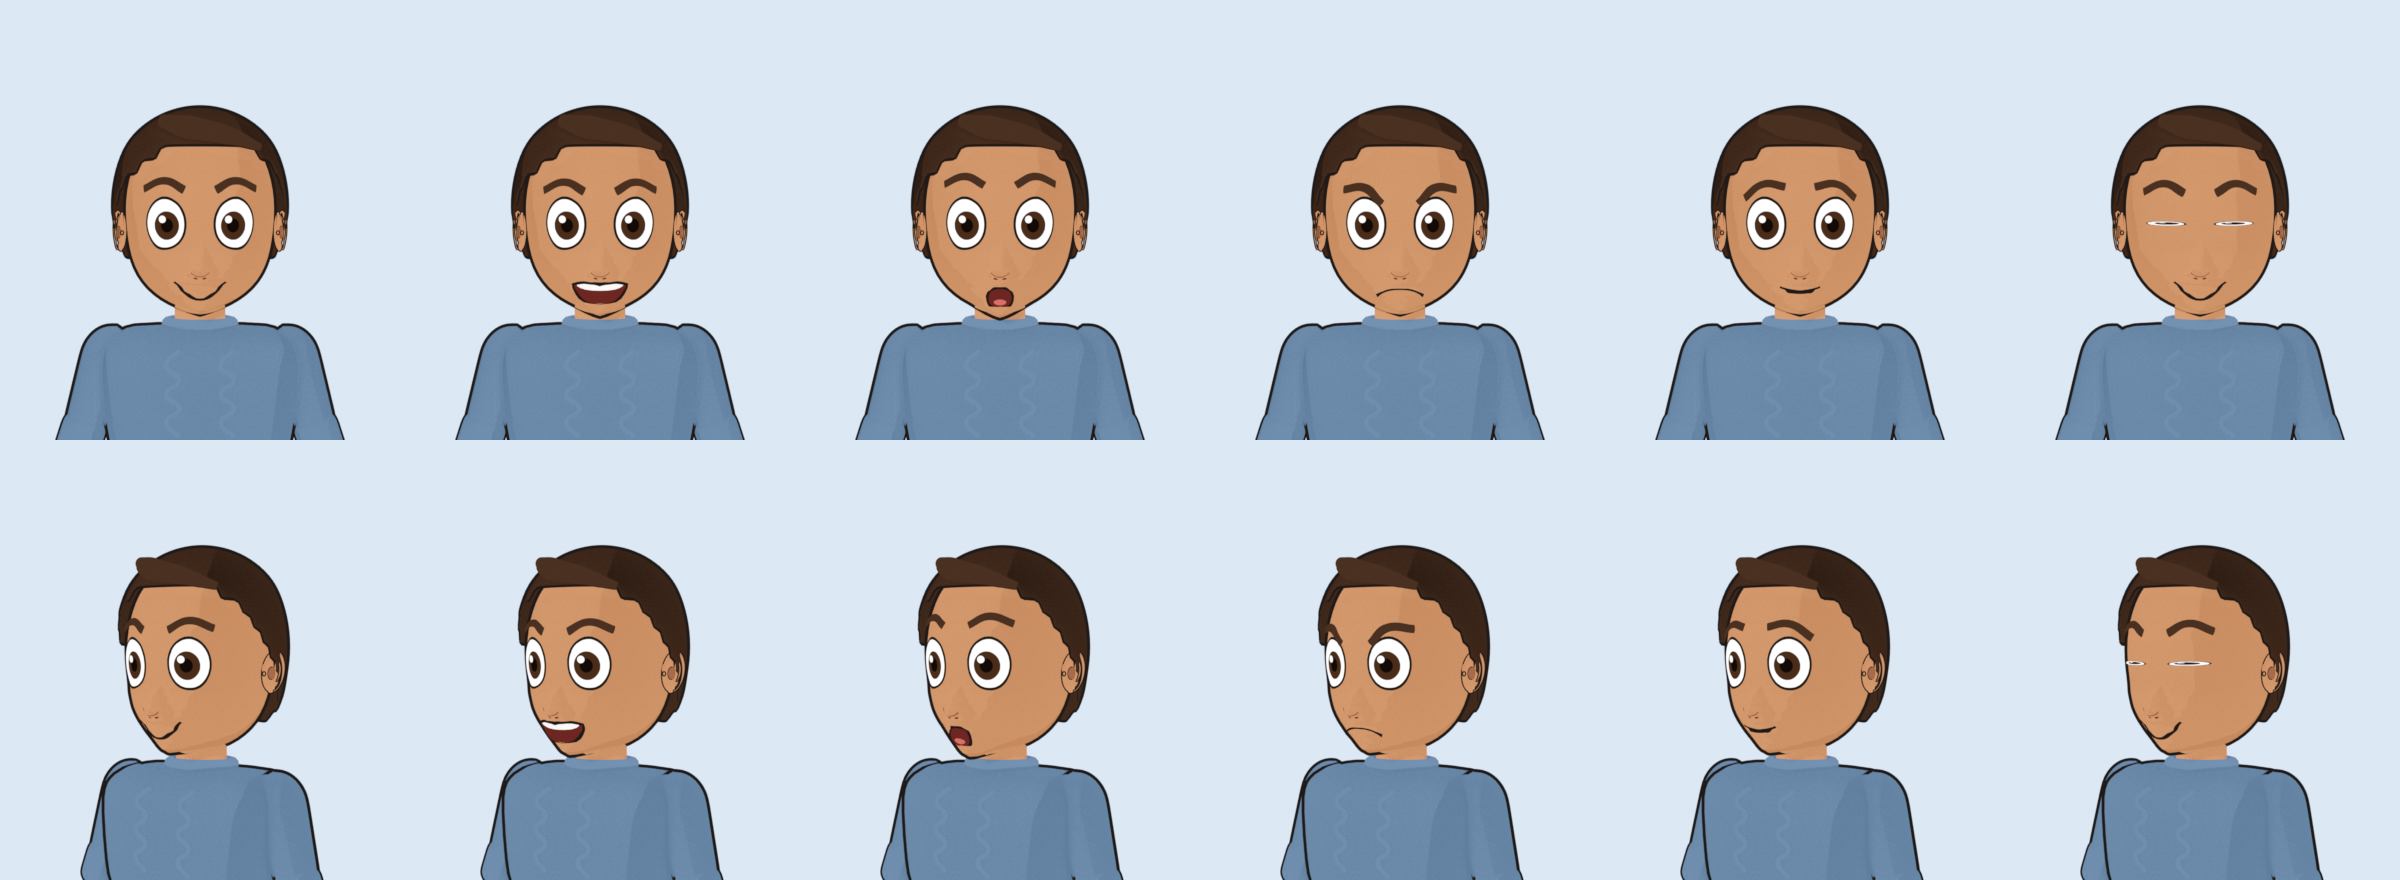
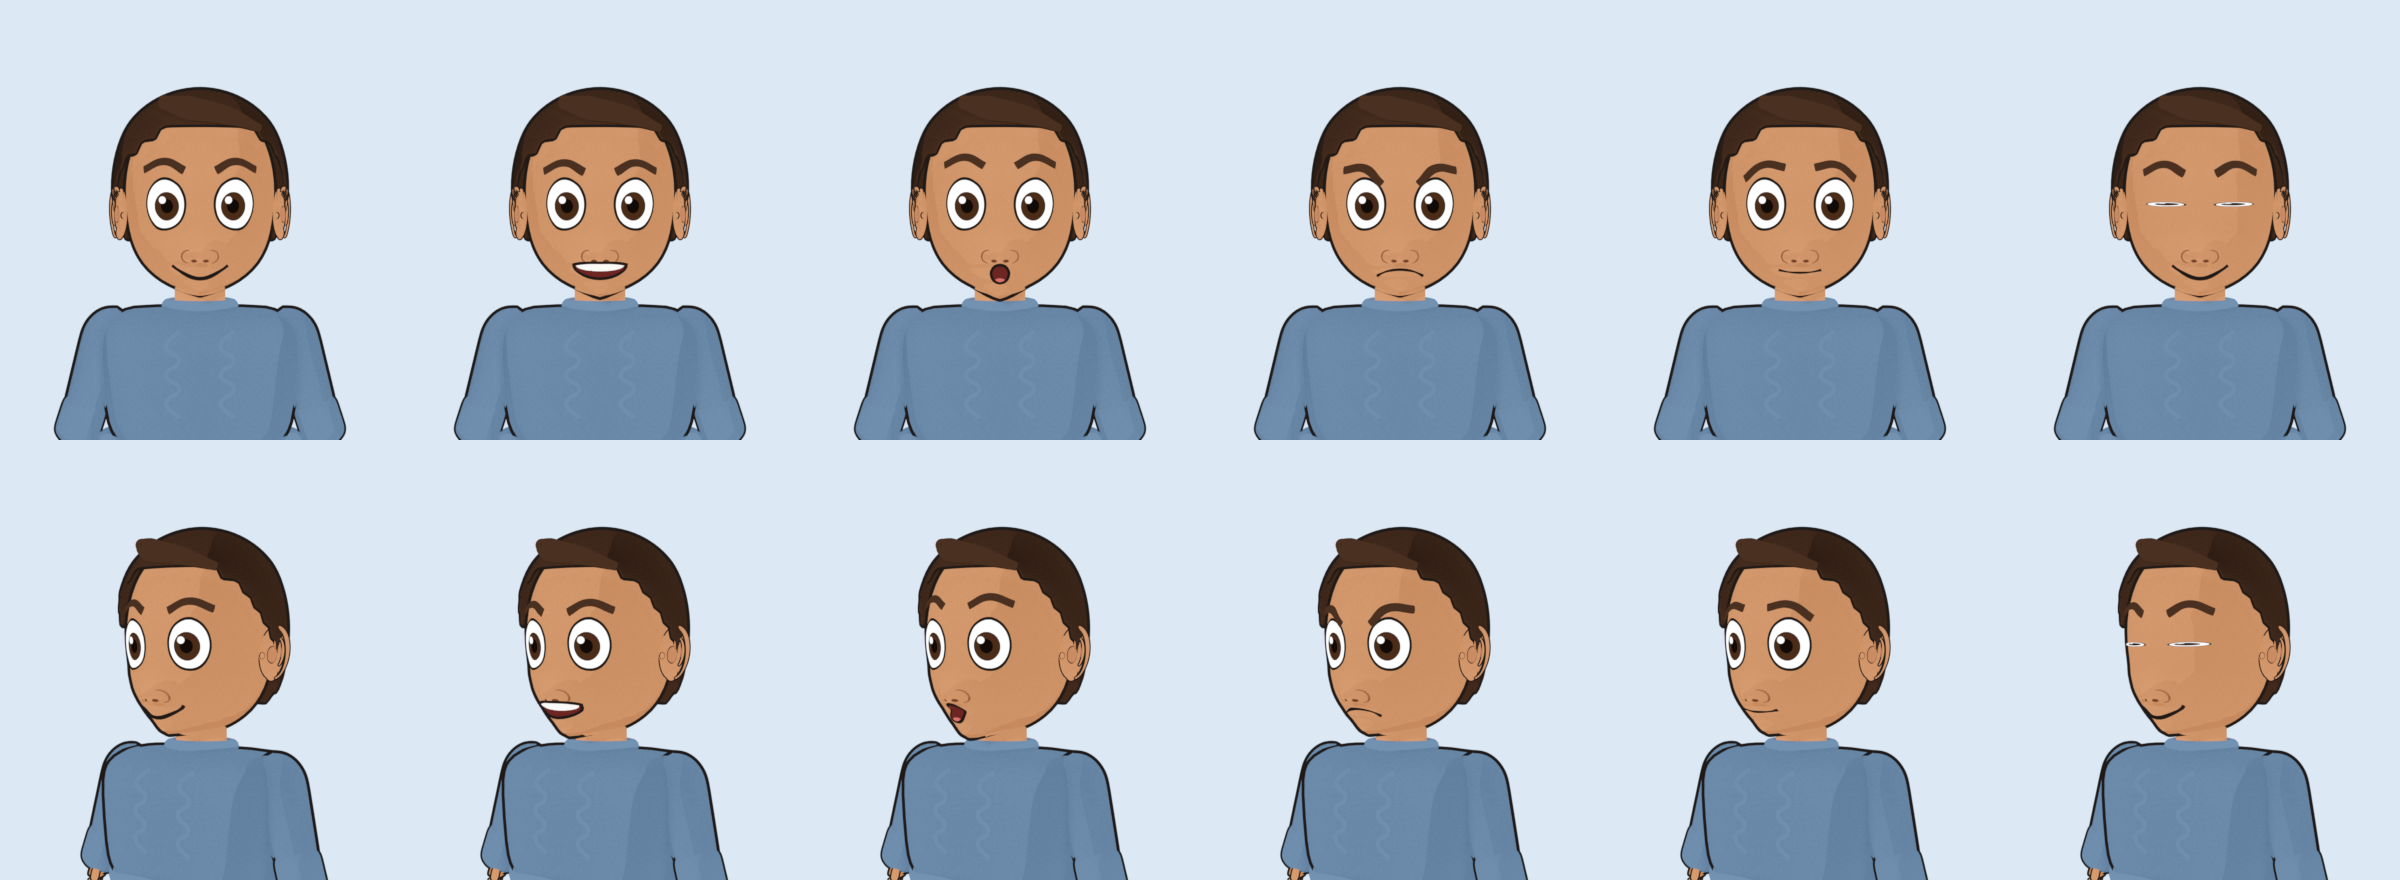
Ace v005 profile pass: reference-based nose, fuller lips, bigger ears
Soft wide bridge, round bulb tip, wide wings with creases and front-visible
nostrils; lips with volume and a stronger chin; mouth lines projected onto the
lips so they stay clean in all views; close-up and three-quarter review sheets.

diff --git a/tools/blender/build_ace_face.py b/tools/blender/build_ace_face.py
@@ -76,22 +76,24 @@ def prof(z):
     return PROF[-1][1]
 
 
-# nose: a ridge of gaussians from the root between the eyes down to the tip, plus tip ball and wings
+# nose (after the reference faces: soft wide bridge, a big round bulb tip that turns under, wide full
+# wings level with the inner eye corners): a ridge of gaussians from between the eyes to the tip,
+# then the bulb and the two wings
 NOSE = []
 for k in range(14):
     t = k / 13
-    NOSE.append((0.0, 0.797 - 0.068 * t, 0.003 + 0.025 * t ** 1.25, 0.0085 + 0.005 * t, 0.0085))
-NOSE += [(0.0, 0.7265, 0.0335, 0.0145, 0.0105),            # tip
-         (0.0165, 0.7165, 0.0135, 0.0075, 0.0075),           # wings
-         (-0.0165, 0.7165, 0.0135, 0.0075, 0.0075)]
+    NOSE.append((0.0, 0.799 - 0.060 * t, 0.003 + 0.016 * t ** 1.5, 0.0110 + 0.0075 * t, 0.0090))
+NOSE += [(0.0, 0.7240, 0.0390, 0.0215, 0.0195),            # bulb tip
+         (0.0200, 0.7155, 0.0215, 0.0110, 0.0095),           # wings
+         (-0.0200, 0.7155, 0.0215, 0.0110, 0.0095)]
 RELIEF = [  # (x, z, amount forward, sigma x, sigma z)  summed
     (0.045, 0.868, 0.0030, 0.030, 0.010), (-0.045, 0.868, 0.0030, 0.030, 0.010),   # brow ridge
-    (0.0, 0.7035, 0.0040, 0.0120, 0.0060),                                         # philtrum
-    (0.0, 0.6985, 0.0050, 0.0270, 0.0045),                                         # upper lip
-    (0.0, 0.6880, -0.0030, 0.0330, 0.0025),                                        # mouth line
-    (0.0, 0.6770, 0.0055, 0.0230, 0.0055),                                         # lower lip
-    (0.0, 0.6660, -0.0030, 0.0250, 0.0050),                                        # groove under the lip
-    (0.0, 0.6500, 0.0075, 0.0260, 0.0110),                                         # chin
+    (0.0, 0.7040, 0.0055, 0.0120, 0.0060),                                         # philtrum
+    (0.0, 0.6990, 0.0100, 0.0280, 0.0050),                                         # upper lip
+    (0.0, 0.6880, -0.0050, 0.0340, 0.0026),                                        # mouth line
+    (0.0, 0.6765, 0.0095, 0.0250, 0.0058),                                         # lower lip
+    (0.0, 0.6655, -0.0045, 0.0260, 0.0048),                                        # groove under the lip
+    (0.0, 0.6500, 0.0090, 0.0270, 0.0110),                                         # chin
     (0.068, 0.722, 0.0045, 0.022, 0.022), (-0.068, 0.722, 0.0045, 0.022, 0.022),   # cheeks
     (0.062, 0.808, -0.0030, 0.026, 0.024), (-0.062, 0.808, -0.0030, 0.026, 0.024),  # soft eye sockets
 ]
@@ -111,8 +113,8 @@ def shape_point(p):
         for (x, z, a, sx, sz) in RELIEF:
             d += a * g(q.x - x, sx) * g(q.z - z, sz)
         nose = 0.0
-        for (x, z, a, sx, sz) in NOSE:
-            nose = max(nose, a * g(q.x - x, sx) * g(q.z - z, sz))
+        for (x, z, a, sx, sz) in NOSE:          # the underside turns in faster than the bridge rises
+            nose = max(nose, a * g(q.x - x, sx) * g(q.z - z, sz if q.z >= z else sz * 0.66))
         q.y -= (d + nose) * front
     return q
 
@@ -230,12 +232,25 @@ surf.display_type = 'WIRE'
 surf.hide_select = True
 
 
-def stick(ob, offset):
+def stick(ob, offset, project=False):
+    """Lay ob onto the face. project=True: straight along the viewing axis (world Y) instead of to the
+    nearest point, so thin lines on the lips and under the nose stay clean lines (nearest-point
+    snapping pulls their sides into the lip groove and makes them jagged)."""
     sw = ob.modifiers.new("OnFace", 'SHRINKWRAP')
     sw.target = surf
     sw.wrap_method = 'NEAREST_SURFACEPOINT'
     sw.wrap_mode = 'ABOVE_SURFACE'
     sw.offset = offset
+    if project:
+        R = ob.matrix_world.to_3x3().normalized()
+        ax = [k for k in range(3) if abs(R.col[k].y) > 0.95]
+        if ax:
+            sw.wrap_method = 'PROJECT'
+            sw.use_project_x, sw.use_project_y, sw.use_project_z = (ax[0] == 0, ax[0] == 1, ax[0] == 2)
+            sw.use_negative_direction = sw.use_positive_direction = True
+            sw.cull_face = 'OFF'
+        else:
+            print("STICK: no local axis along Y for", ob.name, "- nearest point used")
     i = len(ob.modifiers) - 1
     to = 0
     for j, m in enumerate(ob.modifiers):
@@ -324,7 +339,7 @@ for side in ("L", "R"):
 for o in bpy.data.objects:
     if o.name.startswith(P + "mouth."):
         off = 0.0010 if o.name.endswith("_in") else 0.0020 if ("teeth" in o.name) else 0.0016 if "tongue" in o.name else 0.0024
-        stick(o, off)
+        stick(o, off, project=True)
 nose_old = bpy.data.objects[P + "nose"]
 nose_old.hide_render = nose_old.hide_viewport = True
 
@@ -348,6 +363,7 @@ SKIN = bpy.data.materials[P[:-1] + "_skin"]
 OUTL = bpy.data.materials[P[:-1] + "_outline"]
 SKIN_D = darker(SKIN, P[:-1] + "_skin_fold", (0.55, 0.44, 0.40))
 NOSTRIL = darker(SKIN, P[:-1] + "_nostril", (0.32, 0.22, 0.2))
+BOWL = darker(SKIN, P[:-1] + "_ear_bowl", (0.84, 0.78, 0.75))
 
 
 # ------------------------------------------------------------------ ears
@@ -426,7 +442,9 @@ def build_ear(side):
     br = [top.lerp(at(-0.010, 0.026, 0.0118), t / 5) for t in range(6)]
     tube(bm, br, [0.0022 - 0.0006 * t / 5 for t in range(6)], N, 0)                             # upper fork
     ellipsoid(bm, at(-0.0035, -0.004, 0.0122), U, V, N, (0.0095, 0.0135, 0.0012), 2)          # concha bowl
-    ellipsoid(bm, at(-0.0185, -0.008, 0.0105), U, V, N, (0.0045, 0.0055, 0.0040), 0)          # tragus
+    ellipsoid(bm, at(-0.0175, -0.008, 0.0080), U, V, N, (0.0045, 0.0055, 0.0038), 0)          # tragus
+    for v in bm.verts:                    # 30 % bigger than first drawn: the folds must read at episode size
+        v.co = c + (v.co - c) * 1.3
     if s < 0:
         for v in bm.verts:
             v.co.x = -v.co.x
@@ -438,7 +456,7 @@ def build_ear(side):
     me = bpy.data.meshes.new(P + "ear_v005." + side)
     bm.to_mesh(me)
     bm.free()
-    for m in (SKIN, OUTL, SKIN_D, OUTL):
+    for m in (SKIN, OUTL, BOWL, OUTL):
         me.materials.append(m)
     ob.data = me
     for m in ob.modifiers:
@@ -458,8 +476,8 @@ for s in (-1, 1):
     t = bmesh.new()
     bmesh.ops.create_uvsphere(t, u_segments=12, v_segments=8, radius=1.0)
     for v in t.verts:
-        v.co = Vector((v.co.x * 0.0042, v.co.y * 0.0030, v.co.z * 0.0022))
-    vm = {v: bm.verts.new(v.co + Vector((s * 0.0080, -0.150, 0.7105))) for v in t.verts}
+        v.co = Vector((v.co.x * 0.0052, v.co.y * 0.0020, v.co.z * 0.0029))
+    vm = {v: bm.verts.new(v.co + Vector((s * 0.0105, -0.22, 0.7080))) for v in t.verts}
     for f in t.faces:
         bm.faces.new([vm[v] for v in f.verts]).smooth = True
     t.free()
@@ -475,19 +493,19 @@ nos.parent_type = 'BONE'
 nos.parent_bone = "head"
 bpy.context.view_layer.update()
 nos.matrix_world = Matrix()
-st = nos.modifiers.new("OnFace", 'SHRINKWRAP')
-st.target = surf
-st.wrap_method = 'NEAREST_SURFACEPOINT'
-st.wrap_mode = 'ABOVE_SURFACE'
-st.offset = 0.0006
+stick(nos, 0.0006, project=True)
 
-# nose fold: a soft line under the tip from one nostril wing to the other, so the nose reads from the front
+# nose creases: a curved line round each wing, from beside the bridge, round the outside of the wing
+# and in under it to the nostril - the lines a cartoon nose is drawn with, so it reads from the front
 bm = bmesh.new()
-arc = []
-for i in range(13):
-    t = i / 12 * 2 - 1
-    arc.append(Vector((t * 0.0215, -0.16, 0.7155 - 0.0055 * (1 - t * t) + 0.004 * t ** 4)))
-tube(bm, arc, [0.0012 + 0.0010 * (1 - abs(i / 6 - 1)) for i in range(13)], Vector((0, -1, 0)), 0, ring=8)
+for sd in (-1, 1):
+    arc = []
+    n = 15
+    for i in range(n):
+        ph = math.radians(100 - 185 * i / (n - 1))
+        arc.append(Vector((sd * (0.0200 + 0.0128 * math.cos(ph)), -0.22, 0.7155 + 0.0118 * math.sin(ph))))
+    rads = [0.0005 + 0.0009 * math.sin(math.pi * i / (n - 1)) ** 0.7 for i in range(n)]
+    tube(bm, arc, rads, Vector((0, -1, 0)), 0, ring=8)
 fme = bpy.data.meshes.new(P + "nose_fold")
 bm.to_mesh(fme)
 bm.free()
@@ -498,11 +516,7 @@ for c in head.users_collection:
 fold.parent, fold.parent_type, fold.parent_bone = rig, 'BONE', "head"
 bpy.context.view_layer.update()
 fold.matrix_world = Matrix()
-sf = fold.modifiers.new("OnFace", 'SHRINKWRAP')
-sf.target = surf
-sf.wrap_method = 'NEAREST_SURFACEPOINT'
-sf.wrap_mode = 'ABOVE_SURFACE'
-sf.offset = 0.0007
+stick(fold, 0.0007, project=True)
 
 rig.data.pose_position = 'POSE'
 bpy.context.view_layer.update()

diff --git a/tools/blender/face_views.py b/tools/blender/face_views.py
@@ -3,8 +3,9 @@
     blender -b <char.blend> --python tools/blender/face_views.py -- <PREFIX> <out_dir> [tag]
 
   <tag>_turn.png     head in front, three-quarter and true side view, side by side (neutral smile)
+  <tag>_turn_close.png  the same three views, closer, face filling the frame
   <tag>_mouth.png    the nine mouth shapes (0 smile, 1 rest, 2 A, 3 E, 4 O, 5 U/W, 6 M/B/P, 7 F/V,
-                     8 frown), each in front (top row) and side view (bottom row)
+                     8 frown), each in front, three-quarter and side view (rows), close up
   <tag>_expr.png     expressions in front and three-quarter: happy, talking, surprised, cross,
                      worried, blink
 """
@@ -90,13 +91,18 @@ def stitch(rows, path):
 
 setp(mouth=0)
 stitch([[tile("t_front", 0), tile("t_3q", 35), tile("t_side", 90)]], os.path.join(OUT, TAG + "_turn.png"))
+# close-up: the face fills the frame, so profile volume (nose, lips, chin, ear) can be judged
+tgt = Vector((0, 0, bot + H * 0.42))
+stitch([[tile("c_front", 0, dist=H * 2.5), tile("c_3q", 35, dist=H * 2.5), tile("c_side", 90, dist=H * 2.5)]],
+       os.path.join(OUT, TAG + "_turn_close.png"))
 
-top_row, side_row = [], []
+top_row, q_row, side_row = [], [], []
 for m in range(9):
     setp(mouth=m)
-    top_row.append(tile("m%d_f" % m, 0, res=(360, 400)))
-    side_row.append(tile("m%d_s" % m, 90, res=(360, 400)))
-stitch([top_row, side_row], os.path.join(OUT, TAG + "_mouth.png"))
+    top_row.append(tile("m%d_f" % m, 0, res=(360, 360), dist=H * 2.9))
+    q_row.append(tile("m%d_q" % m, 35, res=(360, 360), dist=H * 2.9))
+    side_row.append(tile("m%d_s" % m, 90, res=(360, 360), dist=H * 2.9))
+stitch([top_row, q_row, side_row], os.path.join(OUT, TAG + "_mouth.png"))
 
 EXPR = [("happy", dict(mouth=0, brows=0.4)), ("talk", dict(mouth=3, brows=0.2)),
         ("surprised", dict(mouth=4, brows=1.0)), ("cross", dict(mouth=8, brows=-0.6, brow_tilt=-1.0)),

diff --git a/blender/characters/README.md b/blender/characters/README.md
@@ -121,11 +121,11 @@ Built from v004 by `tools/blender/build_ace_face.py`; review sheets by `tools/bl
 |---|---|
 | Head | `AC.head` re-sampled from v004's head (same skull and hairline) at high resolution, then given a continuous profile: forehead, soft brow ridge, a nose sculpted into the head (bridge from between the eyes, rounded tip, nostril wings, turned-under base), philtrum, upper lip, mouth line, lower lip, chin, and a jaw brought forward of the old egg shape. The old `AC.nose` blob is hidden. |
 | Ears | `AC.ear.L/R` rebuilt: outer rim (helix) from above the tragus round to the lobe, a Y-shaped inner fold (antihelix), a darker bowl (concha, `AC_skin_fold`), tragus, fleshy lobe; outlined so the folds draw; splayed forward a little so they read from the front. |
-| Nose details | `AC.nostrils` (two dark openings under the tip) and `AC.nose_fold` (a soft line under the tip from wing to wing, so the nose reads from the front). |
-| Attached features | eye whites, irises, pupils, highlights, brows, nostrils, nose fold and every mouth piece have a `OnFace` Shrinkwrap onto `AC.head_surface` (a twin of the head that shares its mesh and shape keys but is invisible to camera and shadows), so they lie on the curve of the face and stay on it through turns, blinks and jaw moves. The eye parts are single front sheets now, each eye white has a dark rim (`AC.eye_rim.L/R`) on the same eye bone, so blinks still work. |
+| Nose | modelled after the reference faces: a soft, wide, low bridge, a big round bulb tip that turns under, wide full wings level with the inner eye corners. `AC.nostrils` (two dark openings under the bulb, seen from the front and three-quarter) and `AC.nose_fold` (a curved crease round each wing, the lines a cartoon nose is drawn with). |
+| Attached features | eye whites, irises, pupils, highlights, brows, nostrils, nose fold and every mouth piece have an `OnFace` Shrinkwrap (mouth lines, nostrils and nose creases are projected straight along the face's forward axis, so thin lines stay clean on the lips) onto `AC.head_surface` (a twin of the head that shares its mesh and shape keys but is invisible to camera and shadows), so they lie on the curve of the face and stay on it through turns, blinks and jaw moves. The eye parts are single front sheets now, each eye white has a dark rim (`AC.eye_rim.L/R`) on the same eye bone, so blinks still work. |
 | Mouth rig | the face itself moves with the `mouth` slider (0 smile, 1 rest, 2 A, 3 E, 4 O, 5 U/W, 6 M/B/P, 7 F/V, 8 frown): head shape keys `jaw_open`, `lips_round`, `lips_press`, `lip_tuck`, `smile`, `frown` are driven from it, on top of the existing mouth shapes. `blink`, `look_x/y`, `brows`, `brow_tilt` unchanged (same names and ranges, so the breakfast lip-sync keys should drive it; not yet re-run on v005). |
 
-Sheets: `characters/3d/ace_v005_turn.png` (front, three-quarter, side), `ace_v005_mouth.png` (nine mouth shapes, front and side), `ace_v005_expr.png` (happy, talking, surprised, cross, worried, blink in front and three-quarter); `ace_v004_turn.png` is the before.
+Sheets: `characters/3d/ace_v005_turn.png` (front, three-quarter, side), `ace_v005_turn_close.png` (the same, face filling the frame), `ace_v005_mouth.png` (nine mouth shapes, front, three-quarter and side), `ace_v005_expr.png` (happy, talking, surprised, cross, worried, blink in front and three-quarter); `ace_v004_turn.png` is the before.
 
 ### Cartoon Ace, short version (`ace_cartoon_v001.blend`) — the chosen cartoon style
 

diff --git a/CHANGELOG.md b/CHANGELOG.md
@@ -1,6 +1,7 @@
 # Changelog
 
 ## 2026-11-23
+- Ace v005 profile pass: the nose remodelled after the reference faces (soft wide bridge, big round bulb that turns under, wide wings, curved creases round each wing, nostrils that show from the front); fuller upper and lower lips with a deeper line between them and a groove under the lower lip; a stronger chin; ears 30 % bigger with a lighter bowl and the tragus set into the ear; mouth lines projected straight onto the lips so they stay clean lines in front, three-quarter and side view. `face_views.py` adds a close-up turn sheet and a three-quarter row to the mouth sheet.
 - Ace's face rebuilt so it reads when the head turns (`blender/characters/ace_cartoon_v005.blend`, `tools/blender/build_ace_face.py`, built on v004): a continuous forehead, nose, lip and chin profile with the nose sculpted into the head (bridge, rounded tip, wings, nostrils, a fold line under the tip); ears with an outer rim, inner Y fold, darker bowl, tragus and lobe; eyes, brows and mouth shrinkwrapped onto the face surface so they stay attached in three-quarter and side view; the face is now part of the mouth rig (jaw open, lips round, lips pressed, lower lip tucked, smile, frown shape keys driven by the `mouth` slider). Review sheets by the new `tools/blender/face_views.py`: `characters/3d/ace_v005_turn.png`, `ace_v005_mouth.png`, `ace_v005_expr.png`, with `ace_v004_turn.png` as the before.
 - Look development, time of day and weather (`tools/blender/lookdev_variants.py`, render-time only: it changes nothing in `city_v009.blend`). One camera in five looks: `night` (deep blue moonlight and sky, warm lit windows, apron floodlight masts with pools of light, runway lights, warm reflection streaks on the wet apron), `morning` (low warm sun from the east, peach horizon, haze), `rain` (grey sky, dark wet pavement, puddles, floodlights on, thin rain streaks only within ~45 m of the camera, heavy haze so the mountains fade), `snow` (snow on roofs, verges, trees and mountains, slushy service roads, cleared runways and taxiways, muted sky, falling snow near the camera) and `highland` (morning light, snow only on the high peaks, for a Kenyan setting where city snow would be wrong). Every look also breaks up the repeated window grids (per-window glass tints, drawn blinds, and lit windows at night), tints toon shadows and light per look, and adds depth haze inside the toon materials (EEVEE treats a world volume as infinitely thick and turns the sky black). Renders of `CT_cam_ep_airport_hero`: `sets/3d/lookdev/{night,morning,rain,snow,highland}.png`.
 - Character lineup test (`tools/blender/lineup_test.py`): Ace, Tori, Max, Daniel and Emma side by side at true size, orthographic, in colour with heights, as solid black silhouettes from the front, three-quarter and side, and as face rows (front, three-quarter, profile) aligned at the same head height. Renders `characters/3d/lineup/`.
